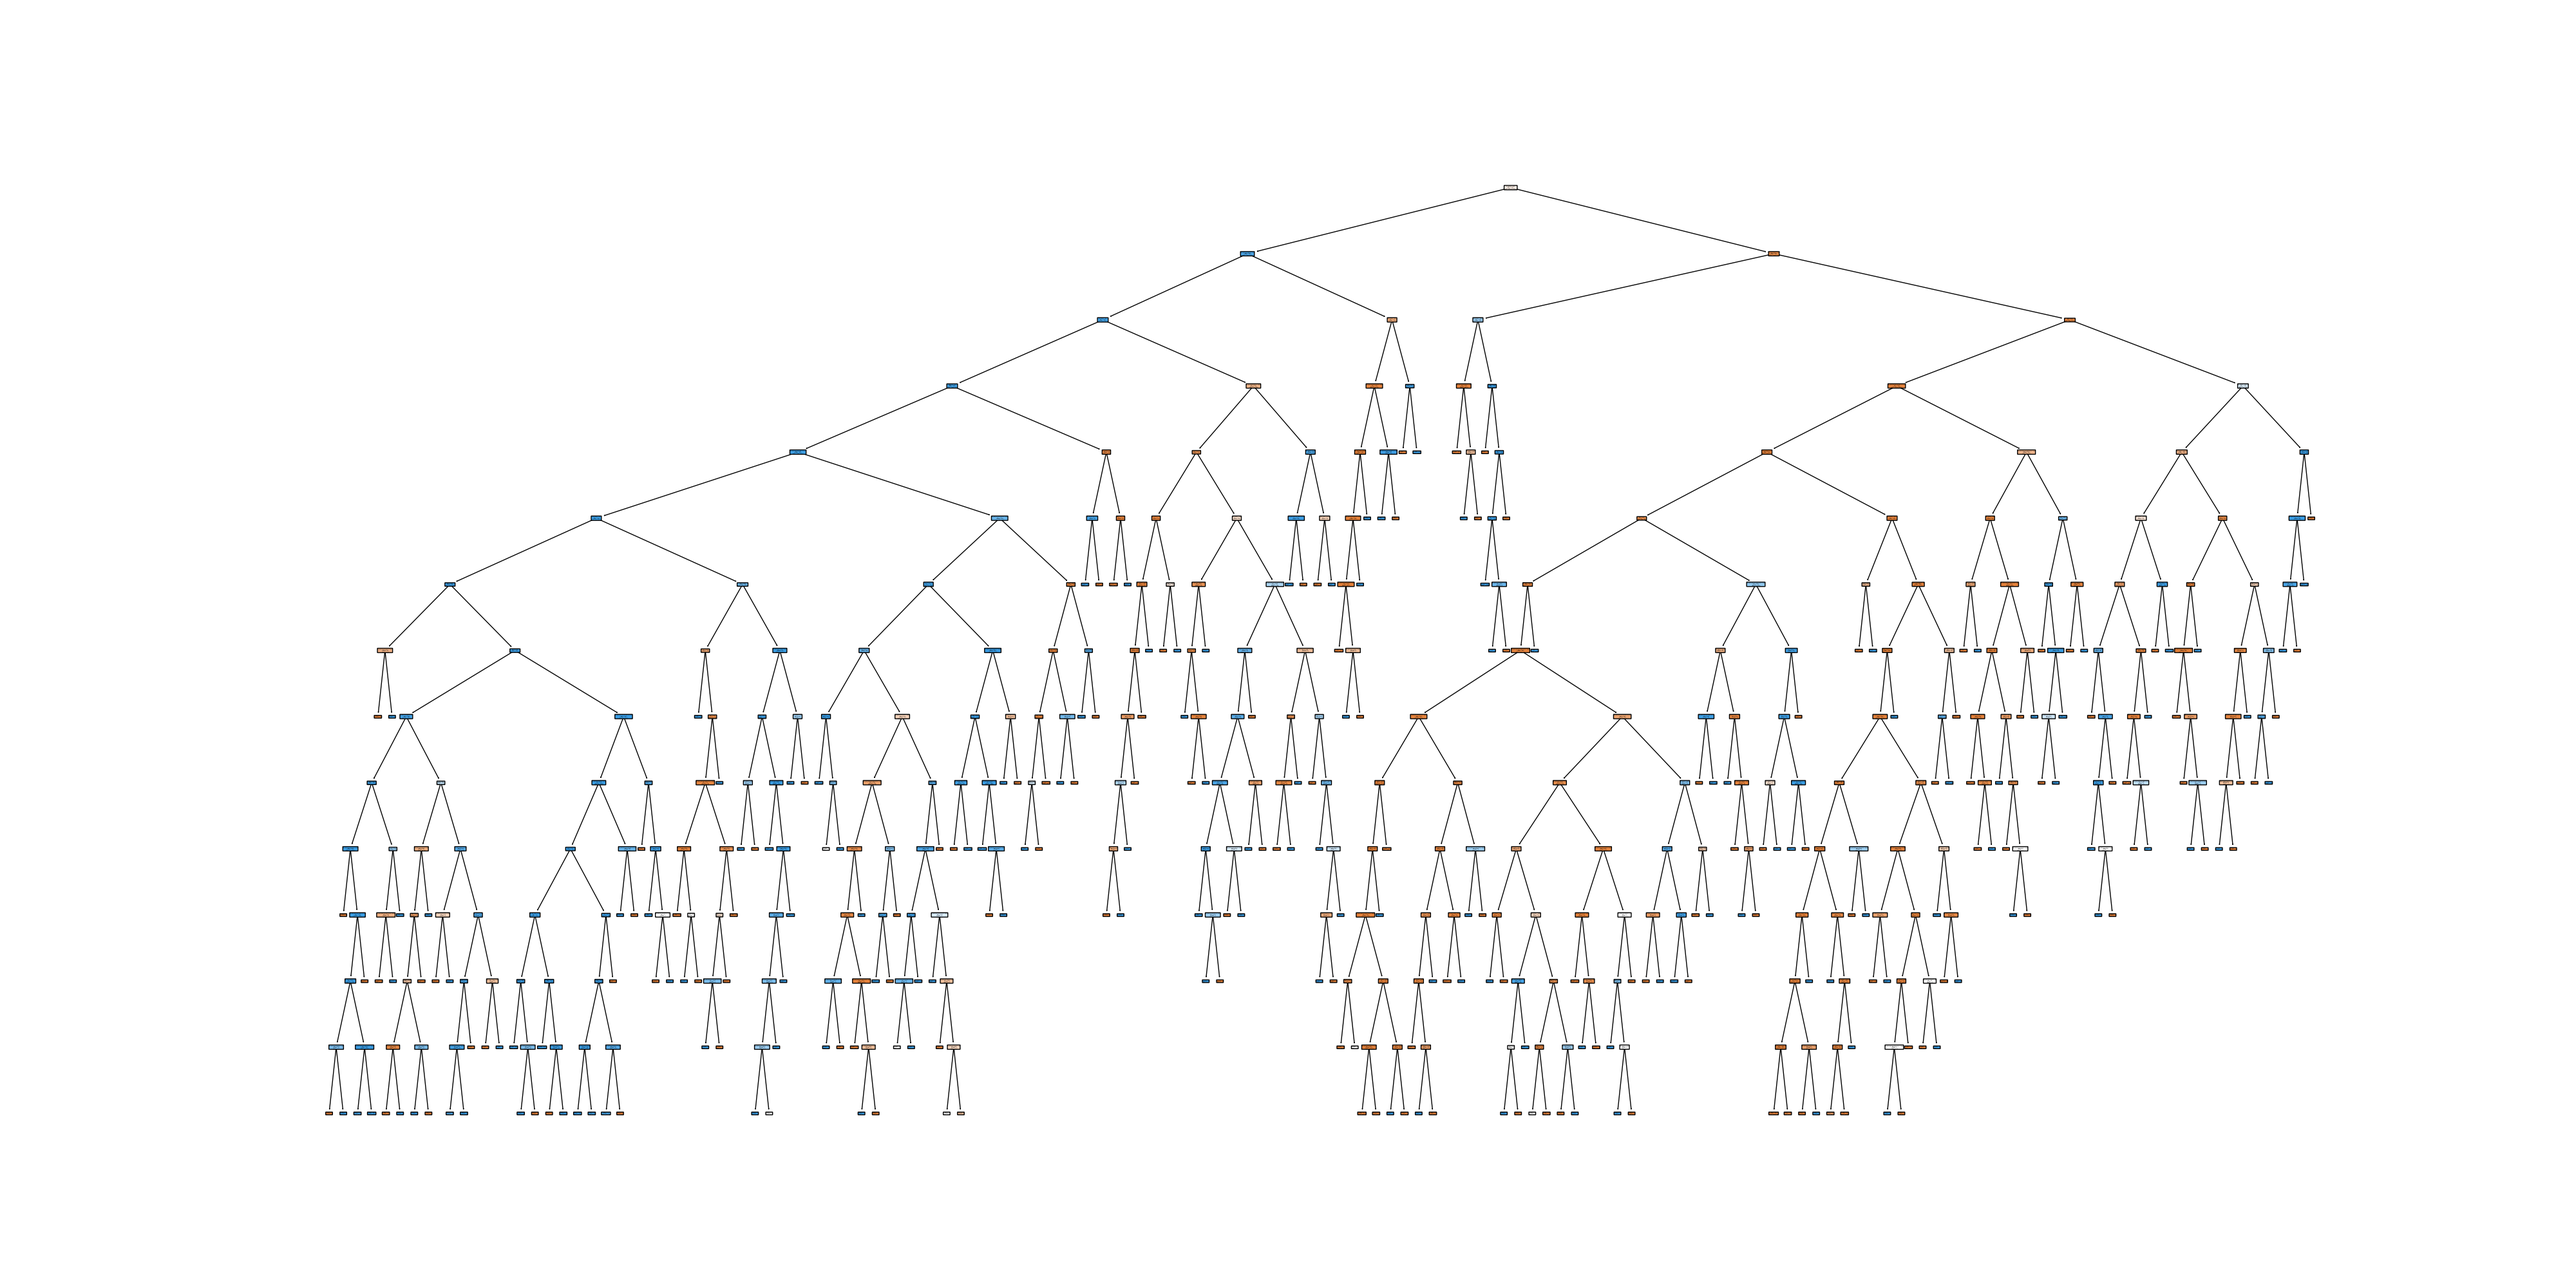
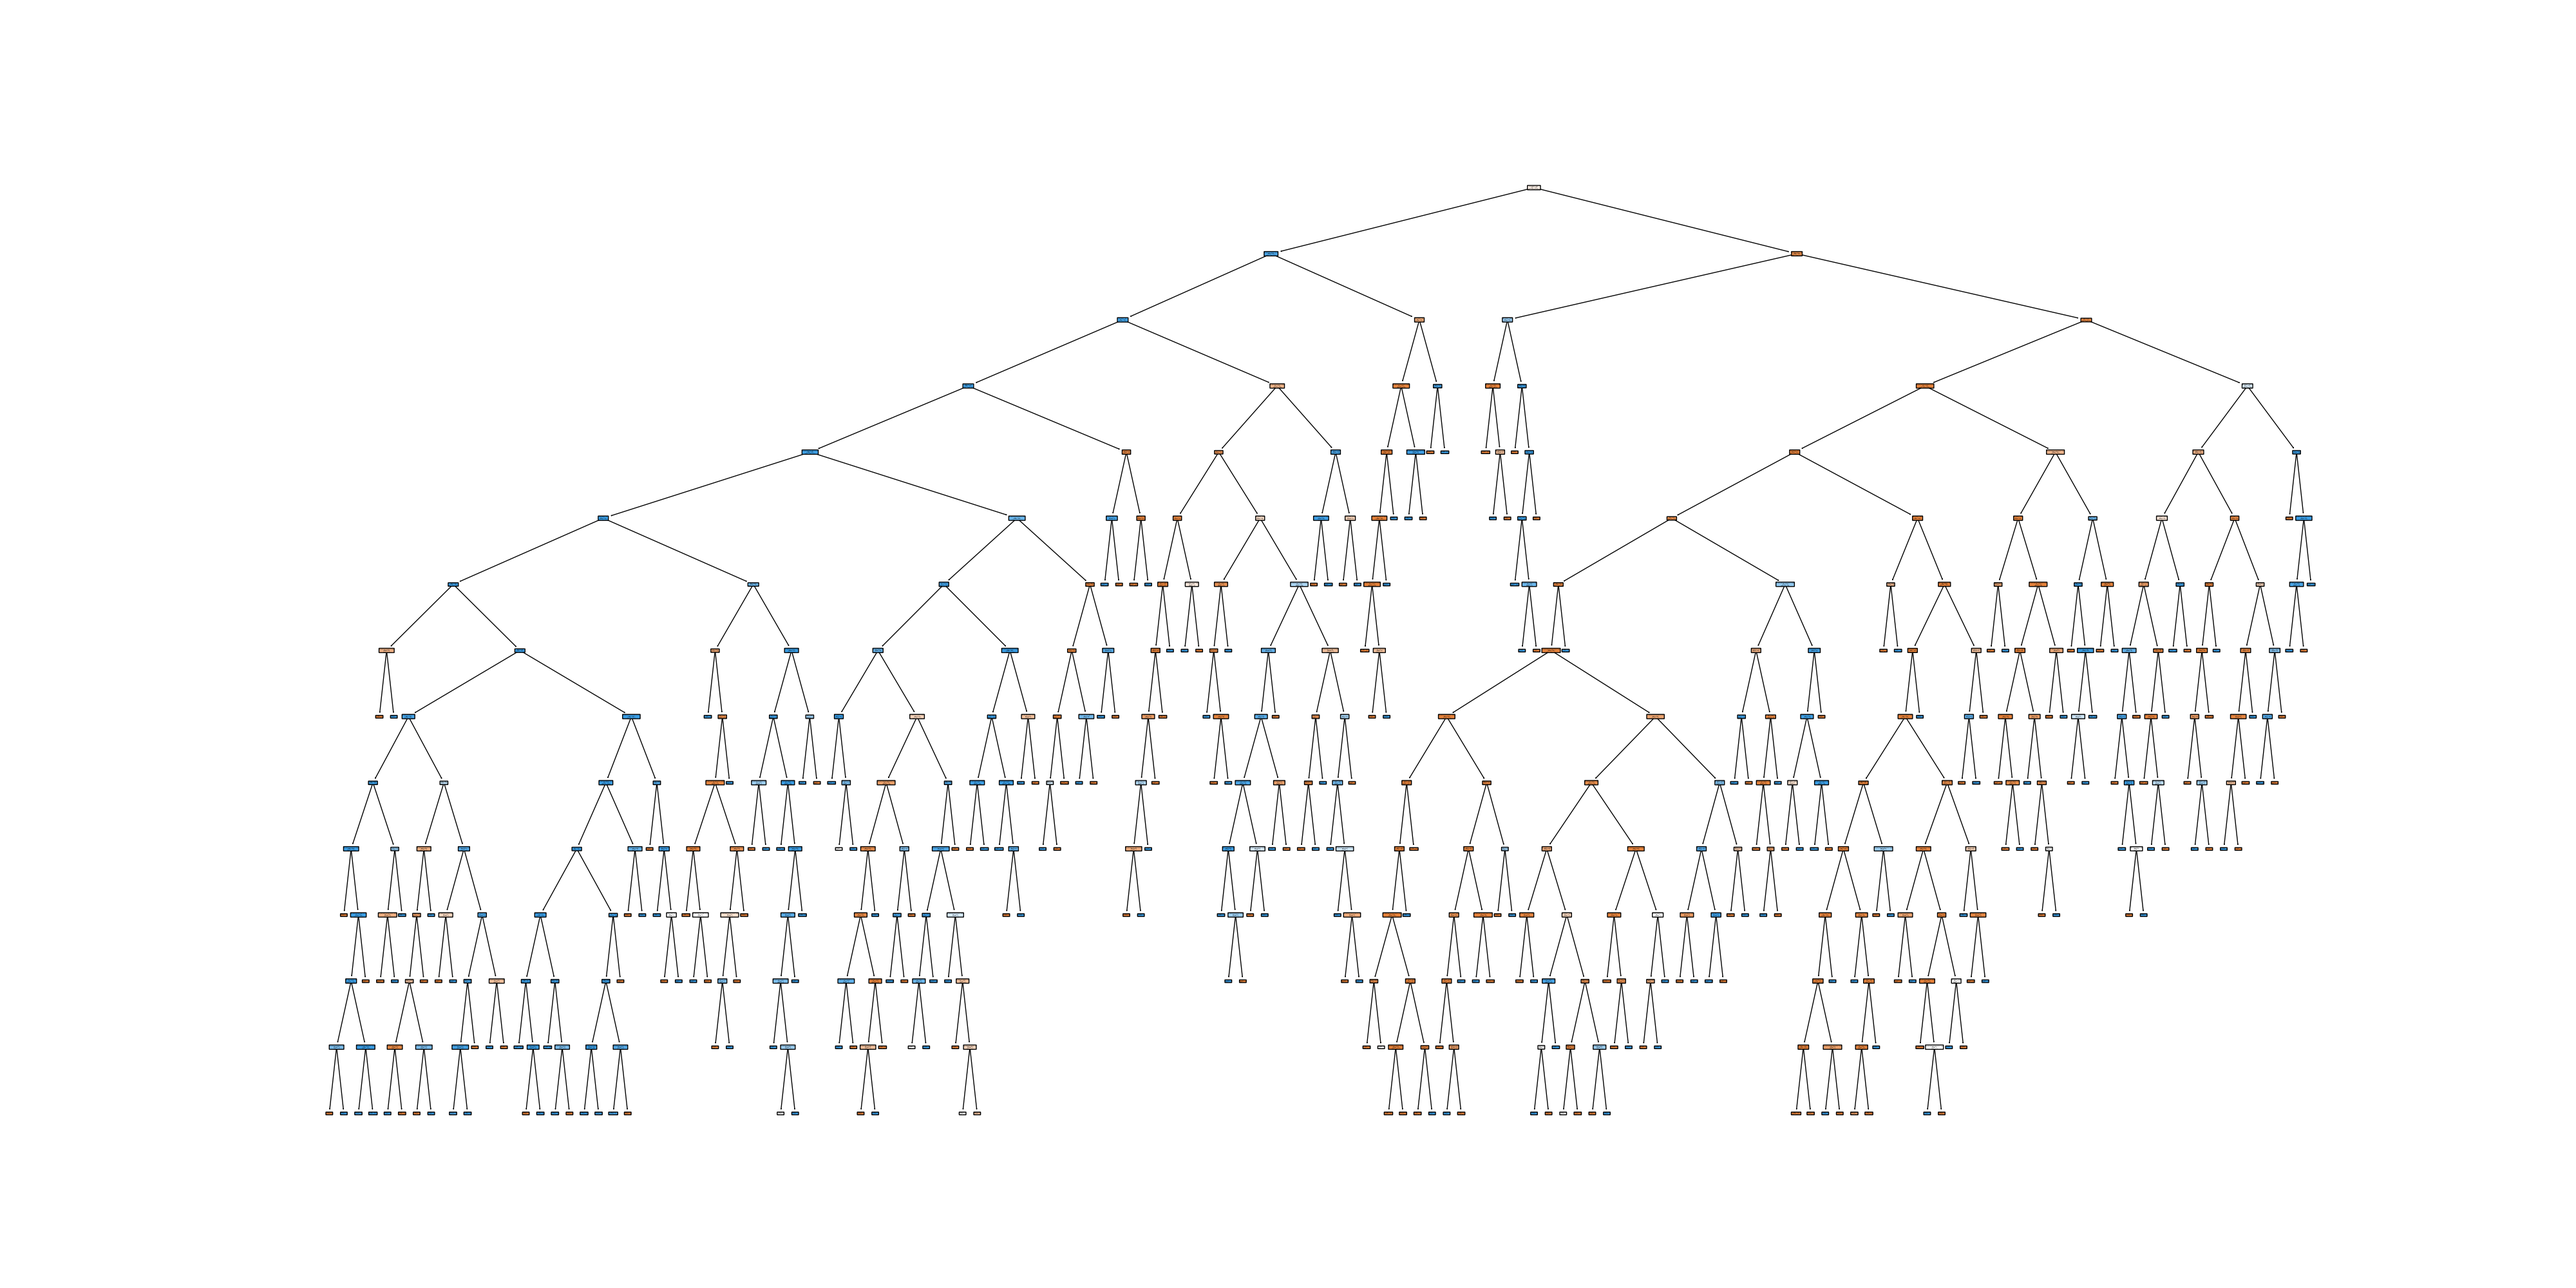
Added responses to general and experiment questions

diff --git a/main.py b/main.py
@@ -18,7 +18,9 @@ def exp1(data, labels):
     # Prepare local variables
     X = data
     y = labels
-    tree_sizes = range(10,16)
+    tree_sizes = range(7,16)
+    train_errors = []
+    val_errors = []
 
     # Split Data Into Train, Test, and Validation Sets
     X_train, X_test, y_train, y_test = train_test_split(X, y, test_size=0.2, random_state=42)
@@ -37,6 +39,23 @@ def exp1(data, labels):
 
         # Append score to list
         cv_scores.append(avg_score)
+        
+        # Fit model on entire training set to calculate training and validation errors
+        clf.fit(X_train, y_train)
+        train_error = 1 - clf.score(X_train, y_train)
+        val_error = 1 - avg_score
+        train_errors.append(train_error)
+        val_errors.append(val_error)
+
+    # Plot Training vs. Validation Error
+    plt.plot(tree_sizes, train_errors, marker='o', label='Training Error')
+    plt.plot(tree_sizes, val_errors, marker='o', label='Validation Error')
+    plt.title('Training vs. Validation Error')
+    plt.xlabel('Tree Depth')
+    plt.ylabel('Error')
+    plt.legend()
+    plt.savefig('figures/exp1/training_vs_validation_error.png')
+    plt.close()
 
     # Determine Optimal Tree Size and Score
     optimal_size_index = np.argmax(cv_scores)
@@ -55,6 +74,7 @@ def exp1(data, labels):
 
     # Train final model using the optimal tree size on the entire training set
     model = tree.DecisionTreeClassifier(max_depth=optimal_size)
+    #model = tree.DecisionTreeClassifier(max_depth=7)
     model.fit(X_train, y_train)
 
     # Evaluate final model on the test set
@@ -69,7 +89,7 @@ def exp1(data, labels):
     plt.close()
 
     # Plot feature importance in final model
-    plt.figure(figsize=(10, 6))
+    plt.figure(figsize=(20, 20))
     plt.barh(feature_names, model.feature_importances_)
     plt.xlabel('Feature Importance')
     plt.ylabel('Feature')
@@ -97,6 +117,7 @@ def exp1(data, labels):
     plt.plot([0, 1], [0, 1], color='navy', lw=2, linestyle='--')
     plt.xlim([0.0, 1.0])
     plt.ylim([0.0, 1.05])
+
     plt.xlabel('False Positive Rate')
     plt.ylabel('True Positive Rate')
     plt.title('Receiver Operating Characteristic (ROC) Curve')

diff --git a/write-up/experiment_questions.md b/write-up/experiment_questions.md
@@ -4,24 +4,33 @@ Complete with command to run on test set: `./642test-$(uname -p) <MODEL_FILE_NAM
 
 ### Q1: What hyperparameters did you vary, and what values did you try? What were some trends you observed?
 
-Within the first experiment concerning the binary classification performed by a decision tree, I opted to set the random_state to 42 for the sake of consistency across multiple runs, then performed cross validation testing while varying the max_depth hyperparameter. In order to ascertain a better unerstanding of how the depth affected the model, I plotted cross-validation accuracy vs. the varying values of maximum tree depth and observed the relationship. Ultimately, after noticing a steep increase in accuracy around depths 5-7 and a plateau of accuracy around depths 13-14, I opted to test a range of depths from 10-15. Though accuracy marginally increased in the range 20-30 (often peaking around 24-26), I felt that limiting the depth to this shorter range would better avoid overfitting and lead to a more accurate model when testing on unseen data.
+Within the first experiment concerning the binary classification performed by a decision tree, I opted to set the random_state to 42 for the sake of consistency across multiple runs, then performed cross validation testing while varying the max_depth hyperparameter. In order to ascertain a better unerstanding of how the depth affected the model, I plotted cross-validation accuracy vs. the varying values of maximum tree depth and observed the relationship. In addition, I opted to map the relationship between validation and testing accuracy as depth increased. Ultimately, after noticing a steep increase in accuracy around depths 5-7 and a plateau of accuracy around depths 13-14, I opted to test a range of depths from 7-16. Though accuracy marginally increased in the range 20-30 (often peaking around 24-26), I felt that limiting the depth to this shorter range would better avoid overfitting and lead to a more accurate model when testing on unseen data. Finally, despite achieving the highest cross-validation accuracy around depth 14, the training accuracy began to worsen around depth 8 as validation accuracy improved (see figure training_vs_validation_error.png). Despite manually selecting depths of 7-8 for the final model, however, test accuracy maintained optimized around depth 14—causing me to implement this value for my final model.
 
 ### Q2: Provide an image of the trained decision tree. Discuss what you observe.
 
 ![Experiment 1: Decision Tree](../figures/exp1/decision_tree.png)
 
+Since cross validation testing on the range 7-16 resulted in a selected maximum depth of 14, the trained decision tree appears complex with numerous nodes. Again, I would like to reiterate my concerns that the large depth of the tree would lead to overfitting and the capturing of intricate patterns in the data that hold little implication across the data set as a whole. Nevertheless, I can not deny that a depth of 14 consistently provided the highest test accuracy of ~96% and above. Thus, the depth was maintained for the final model.
+
 ### Q3: Provide a plot of the feature importance. What were some of the most important features? Why do you think these features were important?
 
 ![Experiment 1: Feature Importances](../figures/exp1/feature_importances.png)
 
+According to the above plot, the most important features appear to be: src_bytes (by a wide margin), protocol type, and dst_host_srv_count.
+- Src_bytes: This feature likely represents the number of bytes sent from the source to the destination server in a network communication. High values of src_bytes may indicate unusually large data transfers which could be suggestive of certain types of attacks—in particular, Denial of Service (DoS) attacks. Consequently, the classifier assigns this feature high importance for distinguishing between normal and malicious network traffic.
+- Protocol Type: This feature indicates the communication protocol employed in the network communication. One possible explanation for the importance of this feature may be the association of different attacks with different network protocols. For example, in class we learned that a TCP protocol proves closely associated with SYN flooding attacks. Thus, the classifier may find that distinguishing normal and malicious activity relies heavily on the type of protocol employed—as some may be more susceptible to attack than others.
+- Dst_host_srv_count: This feature represents the number of services being run on the destination host. One possible explanation for the importance of this feature may be that an increase in the number of applications being served results in an increase in the likelihood of serving a malicious application. Further, returning to the example of SYN flooding attacks, serving a high number of users may also represent a DoS attack, thereby leading to the benefit of using dst_host_srv_count for classification.
 ### Q4: Plot a confusion matrix on the validation data. Discuss what you observe.
 
 ![Experiment 1: Confusion Matrix](../figures/exp1/confusion_matrix.png)
+
+According to the above confusion matrix, we find the model proves extremely accurate on the test data as the false positive and false negative counts appear extremely low in comparison to the true positive and true negative counts. In fact, the matrix suggests the model demonstrates an accuracy of: 99.74%.
 
 ### Q5: Plot a ROC curve on the validation data. What do you find to be the optimal threshold for predicting something as positive?
 
 ![Experiment 1: ROC Curve](../figures/exp1/ROC_curve.png)
 
+According to the provided ROC curve, the apparent optimal threshold for predicting something as positive is ~1.0, implying a near perfect classifier.
 ---
 ---
 

diff --git a/write-up/general_questions.md b/write-up/general_questions.md
@@ -2,7 +2,13 @@
 
 ### Q1: What are some advantages and disadvantages of using a supervised machine learning classifier for intrusion detection compared to a signature-based (non-learning) classifier?
 
-Replace this text with your answer (should be between 2-4 sentences).
+
+When utilizing a supervised machine learning classifier for intrusion detection compared to a signature-based (non-learning) classifier, one may note numerous advantages, such as:
+- By learning from labeled data, a ML classifier does not need manually defined rules to identify threats as it instead relies on data extraction and pattern recognition to classify activity as normal or malicious. Further, such adaptive classification increases the ability of the model to detect novel threats and flag unseen attacks, a quality lacked by a signature-based classifier.
+
+Disadvantages, however, do exist, such as:
+- For a supervised ML classifier to function optimally, the quality and quantity of data must prove sufficient, which may become a challenge
+- Models may prove subject to overfitting which could negatively affect their performance when classifying unseen data.
 
 ### Q2: What is the importance of using a validation set?
 
